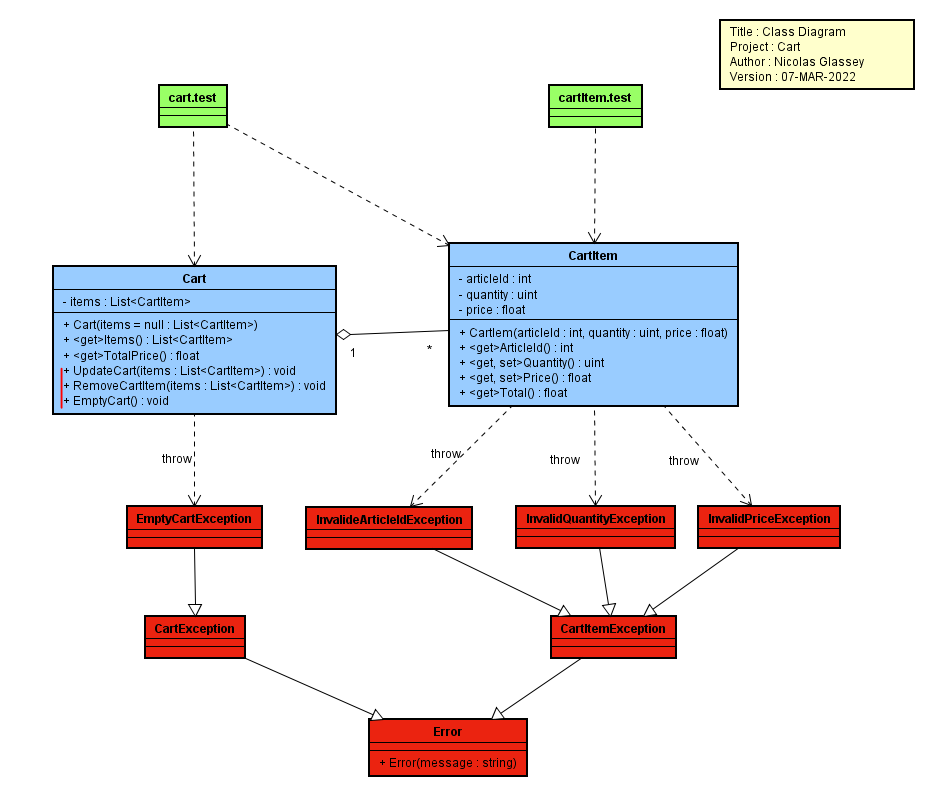
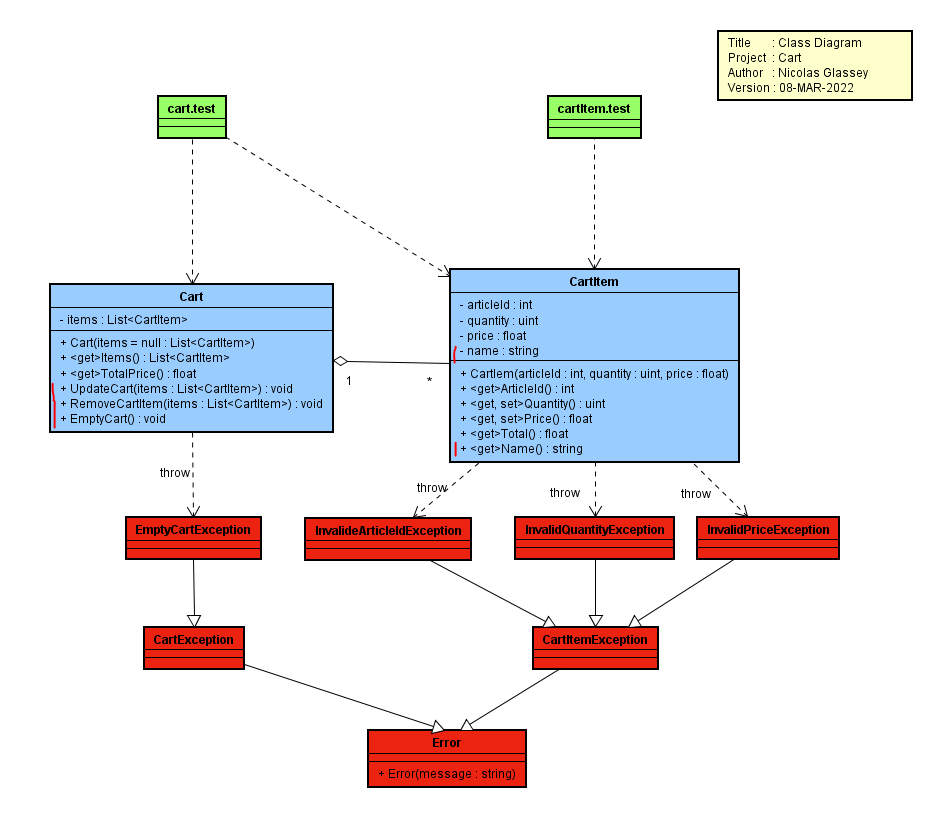
Update Class Diagram

diff --git a/src/tests/cart.test.js b/src/tests/cart.test.js
@@ -35,3 +35,5 @@ test('getTotalCart_EmptyCart_ThrowException', () => {
     //then
     //Exception is thrown
 })
+
+test('count')
